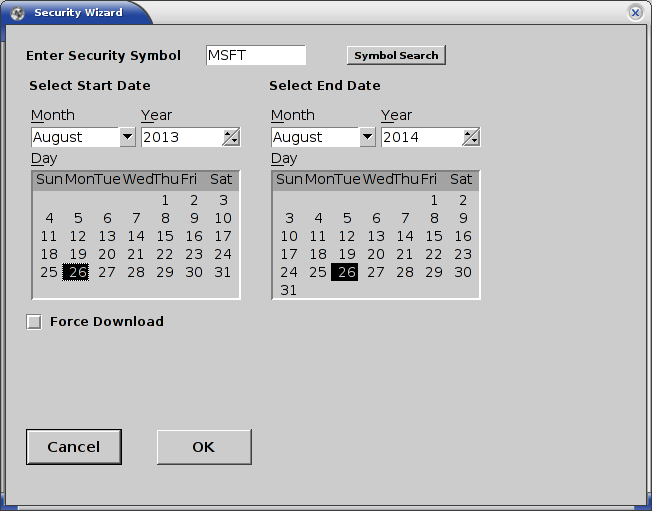
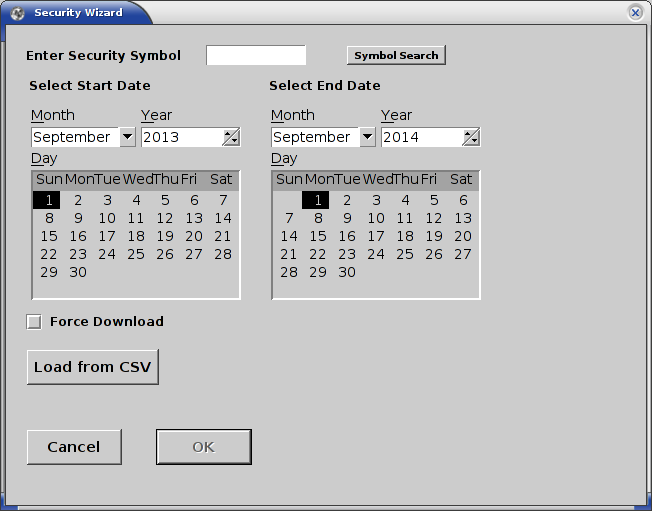
Updating docs to add load-from-csv option

diff --git a/usage.html b/usage.html
@@ -127,8 +127,13 @@ in the <em>&#8216;Security Wizard&#8217;</em>.</p>
 <figcaption>Select a Stock Symbol in the Security Wizard</figcaption></figure>
 
 <ul>
-<li>View the retrieved data in a tab titled <em>&#8216;MSFT&#8217;</em> or the symbol you have
- chosen</li>
+<li><p>Alternatively, hit the <em>&#8216;Load from CSV&#8217;</em> button and load an existing CSV file
+ that is in the Date-Open-High-Low-Close-Volume format. If this file is given,
+the data will be used from this file and will not be downloaded. This is useful
+if the users want to use their own data for securities that may not be available
+for download from Yahoo! Finance.</p></li>
+<li><p>View the retrieved data in a tab titled <em>&#8216;MSFT&#8217;</em> or the symbol you have
+ chosen</p></li>
 </ul>
 
 <figure>
@@ -369,7 +374,7 @@ saved.</p>
     with your own intelligence. The application comes with no warranty. For more
     details refer the <a href="./license.html">license</a> page.</em>
     <br/><br/><p style="font-size:10px;">
-        This page was last updated on 2014-08-31 13:42:22 -0400.
+        This page was last updated on 2014-08-31 13:53:18 -0400.
     </p>
     </div></footer>
     

diff --git a/usage.md b/usage.md
@@ -75,6 +75,12 @@ The steps are outlined as follows:
 
 ![Select a Stock Symbol in the Security Wizard](./images/financeta_sec_wizard.png "Enter a valid stock symbol in the 'Security Wizard'")
 
+- Alternatively, hit the _'Load from CSV'_ button and load an existing CSV file
+  that is in the Date-Open-High-Low-Close-Volume format. If this file is given,
+the data will be used from this file and will not be downloaded. This is useful
+if the users want to use their own data for securities that may not be available
+for download from Yahoo! Finance.
+
 - View the retrieved data in a tab titled _'MSFT'_ or the symbol you have
   chosen
 
